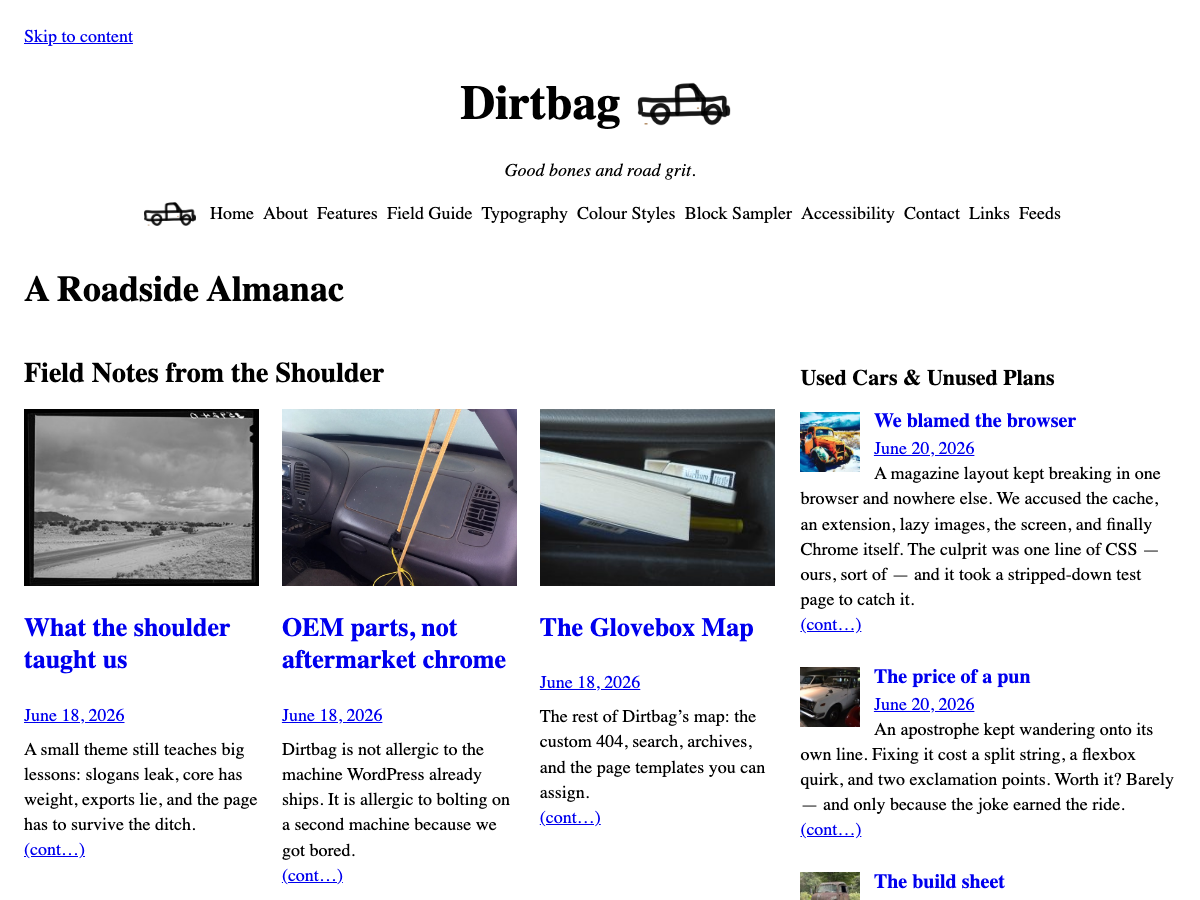
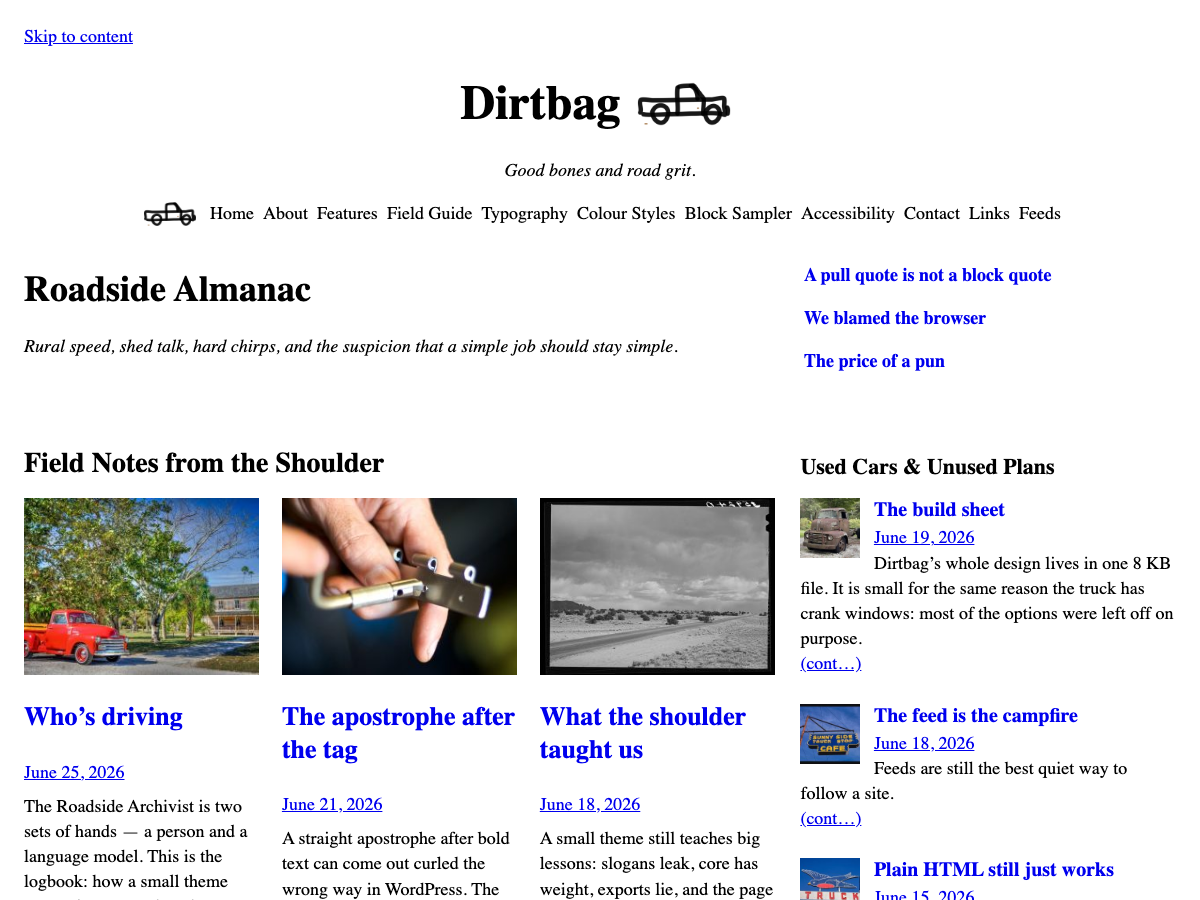
fix(theme-review): WordPress.org review #277839 fixes 0.1.15 (#97)
* fix(theme-review): address WordPress.org review #277839 for 0.1.15

- Blogroll pattern: replace real external URLs with example.com placeholders
  and generic XFN relationship labels, so the theme ships no hard-coded
  third-party URLs.
- front-page.php: make every user-facing string translation-ready
  (esc_html_e / esc_attr_e), and replace the hard-coded demo post links with
  dynamic Query Loop blocks. The masthead and the "Used Cars" sidebar share
  the non-sticky pool with a page offset (0 and 3), and "Field Notes" is a
  disjoint sticky-only query, so every section shows unique posts and the
  front page works on a fresh install.
- readme.txt: add a licence type and licence URL to every Resources entry,
  clarify the photographs are Playground demo media (not shipped in the theme
  package), and drop the Butterick's Practical Typography line (a design
  influence, not a bundled or licensed asset).
- Bump to 0.1.15; regenerate languages/dirtbag.pot.

* chore(theme): refresh front-page screenshot for 0.1.15

The shipped screenshot showed the pre-0.1.10 masthead. Recapture the
current front page (two-column masthead with standfirst, dynamic Query
Loop sections with offsets, featured Field Notes grid).

* chore(release): bump to 0.1.16 for WordPress.org resubmission

Version-only bump so the directory accepts the re-upload (it rejects a
duplicate version during review). Refreshes the front-page screenshot
[…]

Changed region(s): [[0.0, 0.3422, 0.9867, 1.0], [0.0, 0.3111, 0.3083, 0.3422], [0.6783, 0.28, 0.8633, 0.3111]]

diff --git a/style.css b/style.css
@@ -7,7 +7,7 @@ Description: A hyper-simple WordPress block theme with brutalist and minimalist 
 Requires at least: 7.0
 Tested up to: 7.0
 Requires PHP: 7.2
-Version: 0.1.14
+Version: 0.1.16
 License: GNU General Public License v2 or later
 License URI: https://www.gnu.org/licenses/gpl-2.0.html
 Text Domain: dirtbag

diff --git a/patterns/front-page.php b/patterns/front-page.php
@@ -14,25 +14,33 @@
 <main id="main-content" class="wp-block-group"><!-- wp:columns {"verticalAlignment":null,"align":"wide"} -->
 <div class="wp-block-columns alignwide"><!-- wp:column {"width":"66.66%"} -->
 <div class="wp-block-column" style="flex-basis:66.66%"><!-- wp:heading {"level":1} -->
-<h1 class="wp-block-heading">Roadside Almanac</h1>
+<h1 class="wp-block-heading"><?php esc_html_e( 'Roadside Almanac', 'dirtbag' ); ?></h1>
 <!-- /wp:heading -->
 
 <!-- wp:paragraph -->
-<p><em>Rural speed, shed talk, hard chirps, and the suspicion that a simple job should stay simple.</em></p>
+<p><em><?php esc_html_e( 'Rural speed, shed talk, hard chirps, and the suspicion that a simple job should stay simple.', 'dirtbag' ); ?></em></p>
 <!-- /wp:paragraph --></div>
 <!-- /wp:column -->
 
 <!-- wp:column {"verticalAlignment":"bottom","width":"33.33%"} -->
-<div class="wp-block-column is-vertically-aligned-bottom" style="flex-basis:33.33%"><!-- wp:paragraph -->
-<p>› <a href="/2026/06/15/plain-html-still-works/">Plain HTML still just works</a><br>› <a href="/2026/06/09/a-table-a-caption-and-a-cheap-folding-chair/">A Table, a Caption, and a Cheap Folding Chair</a><br>› <a href="/2026/06/10/no-build-step-just-keep-driving/">No Build Step, Just Keep Driving</a></p>
-<!-- /wp:paragraph --></div>
+<div class="wp-block-column is-vertically-aligned-bottom" style="flex-basis:33.33%"><!-- wp:query {"queryId":2,"query":{"perPage":3,"pages":0,"offset":0,"postType":"post","order":"desc","orderBy":"date","author":"","search":"","exclude":[],"sticky":"exclude","inherit":false},"className":"masthead-links"} -->
+<div class="wp-block-query masthead-links"><!-- wp:post-template -->
+<!-- wp:post-title {"isLink":true,"level":0} /-->
+<!-- /wp:post-template -->
+
+<!-- wp:query-no-results -->
+<!-- wp:paragraph -->
+<p><?php esc_html_e( 'No posts yet.', 'dirtbag' ); ?></p>
+<!-- /wp:paragraph -->
+<!-- /wp:query-no-results --></div>
+<!-- /wp:query --></div>
 <!-- /wp:column --></div>
 <!-- /wp:columns -->
 
 <!-- wp:columns {"align":"wide","className":"front-grid"} -->
 <div class="wp-block-columns alignwide front-grid"><!-- wp:column {"width":"66.66%"} -->
 <div class="wp-block-column" style="flex-basis:66.66%"><!-- wp:heading -->
-<h2 class="wp-block-heading">Field Notes from the Shoulder</h2>
+<h2 class="wp-block-heading"><?php esc_html_e( 'Field Notes from the Shoulder', 'dirtbag' ); ?></h2>
 <!-- /wp:heading -->
 
 <!-- wp:query {"queryId":0,"query":{"perPage":6,"pages":0,"offset":0,"postType":"post","order":"desc","orderBy":"date","author":"","search":"","exclude":[],"sticky":"only","inherit":false},"className":"h-feed","layout":{"type":"default"}} -->
@@ -44,13 +52,13 @@
 <!-- wp:group {"className":"post-meta","layout":{"type":"flex","flexWrap":"wrap"}} -->
 <div class="wp-block-group post-meta"><!-- wp:post-date {"isLink":true,"className":"dt-published u-url"} /-->
 
-<!-- wp:post-excerpt {"moreText":"(cont...)"} /--></div>
+<!-- wp:post-excerpt {"moreText":"<?php esc_attr_e( '(cont...)', 'dirtbag' ); ?>"} /--></div>
 <!-- /wp:group -->
 <!-- /wp:post-template -->
 
 <!-- wp:query-no-results -->
 <!-- wp:paragraph -->
-<p>No featured posts yet. Mark a post as sticky to feature it here.</p>
+<p><?php esc_html_e( 'No featured posts yet. Mark a post as sticky to feature it here.', 'dirtbag' ); ?></p>
 <!-- /wp:paragraph -->
 <!-- /wp:query-no-results --></div>
 <!-- /wp:query --></div>
@@ -58,11 +66,11 @@
 
 <!-- wp:column {"width":"33.33%"} -->
 <div class="wp-block-column" style="flex-basis:33.33%"><!-- wp:heading {"className":"sidebar-head"} -->
-<h2 class="wp-block-heading sidebar-head">Used Cars &amp; Unused Plans</h2>
+<h2 class="wp-block-heading sidebar-head"><?php esc_html_e( 'Used Cars & Unused Plans', 'dirtbag' ); ?></h2>
 <!-- /wp:heading -->
 
 <!-- wp:group {"className":"sidebar-content"} -->
-<div class="wp-block-group sidebar-content"><!-- wp:query {"queryId":1,"query":{"perPage":4,"pages":0,"offset":0,"postType":"post","order":"desc","orderBy":"date","author":"","search":"","exclude":[],"sticky":"exclude","inherit":false},"className":"h-feed","layout":{"type":"default"}} -->
+<div class="wp-block-group sidebar-content"><!-- wp:query {"queryId":1,"query":{"perPage":4,"pages":0,"offset":3,"postType":"post","order":"desc","orderBy":"date","author":"","search":"","exclude":[],"sticky":"exclude","inherit":false},"className":"h-feed","layout":{"type":"default"}} -->
 <div class="wp-block-query h-feed"><!-- wp:post-template {"className":"h-entry"} -->
 <!-- wp:group {"className":"sidebar-entry","style":{"spacing":{"blockGap":"0.25em","margin":{"top":"0","bottom":"1.5em"}}}} -->
 <div class="wp-block-group sidebar-entry" style="margin-top:0;margin-bottom:1.5em"><!-- wp:post-featured-image {"isLink":true,"aspectRatio":"1","scale":"cover","sizeSlug":"thumbnail","className":"u-featured sidebar-thumb"} /-->
@@ -71,13 +79,13 @@
 
 <!-- wp:post-date {"isLink":true,"className":"dt-published u-url"} /-->
 
-<!-- wp:post-excerpt {"moreText":"(cont...)"} /--></div>
+<!-- wp:post-excerpt {"moreText":"<?php esc_attr_e( '(cont...)', 'dirtbag' ); ?>"} /--></div>
 <!-- /wp:group -->
 <!-- /wp:post-template -->
 
 <!-- wp:query-no-results -->
 <!-- wp:paragraph -->
-<p>No posts yet.</p>
+<p><?php esc_html_e( 'No posts yet.', 'dirtbag' ); ?></p>
 <!-- /wp:paragraph -->
 <!-- /wp:query-no-results --></div>
 <!-- /wp:query -->

diff --git a/patterns/blogroll-xfn.php b/patterns/blogroll-xfn.php
@@ -13,19 +13,19 @@
 <h2 class="wp-block-heading"><?php esc_html_e( 'Blogroll', 'dirtbag' ); ?></h2>
 <!-- /wp:heading -->
 <!-- wp:paragraph -->
-<p><?php esc_html_e( 'Links are the road. Some are friends, some are neighbours, some are just good exits.', 'dirtbag' ); ?></p>
+<p><?php esc_html_e( 'Links are the road. Some are friends, some are neighbours, some are just good exits. Replace the example links below with your own, and set each rel value to describe the relationship.', 'dirtbag' ); ?></p>
 <!-- /wp:paragraph -->
 <!-- wp:list {"className":"xoxo blogroll"} -->
 <ul class="xoxo blogroll"><!-- wp:list-item -->
-<li><a href="https://indieweb.org/" rel="friend met colleague"><?php esc_html_e( 'IndieWeb', 'dirtbag' ); ?></a></li>
+<li><a href="https://example.com/" rel="friend met"><?php esc_html_e( 'A friend you have met', 'dirtbag' ); ?></a></li>
 <!-- /wp:list-item -->
 <!-- wp:list-item -->
-<li><a href="https://microformats.org/" rel="met colleague"><?php esc_html_e( 'Microformats', 'dirtbag' ); ?></a></li>
+<li><a href="https://example.com/" rel="colleague met"><?php esc_html_e( 'A colleague you have met', 'dirtbag' ); ?></a></li>
 <!-- /wp:list-item -->
 <!-- wp:list-item -->
-<li><a href="https://archive.org/" rel="muse"><?php esc_html_e( 'Internet Archive', 'dirtbag' ); ?></a></li>
+<li><a href="https://example.com/" rel="muse"><?php esc_html_e( 'A site that inspires you', 'dirtbag' ); ?></a></li>
 <!-- /wp:list-item -->
 <!-- wp:list-item -->
-<li><a href="https://textfiles.com/" rel="muse"><?php esc_html_e( 'TEXTFILES.COM', 'dirtbag' ); ?></a></li>
+<li><a href="https://example.com/" rel="acquaintance"><?php esc_html_e( 'An acquaintance', 'dirtbag' ); ?></a></li>
 <!-- /wp:list-item --></ul>
 <!-- /wp:list -->